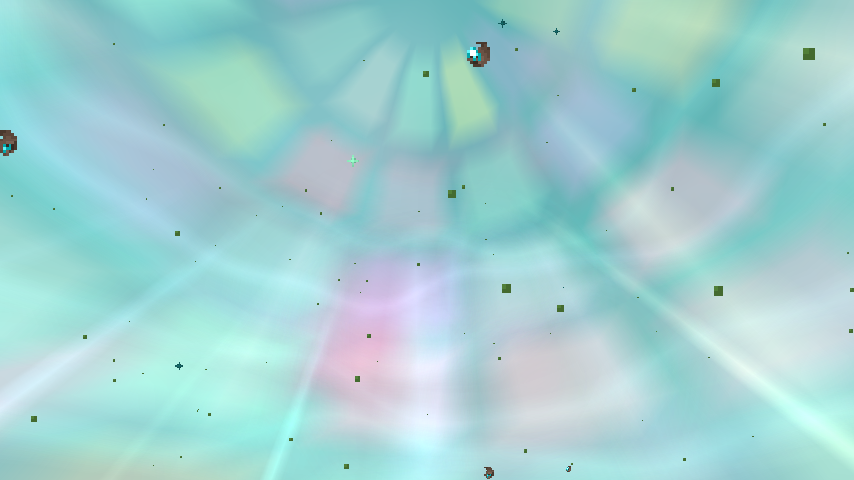
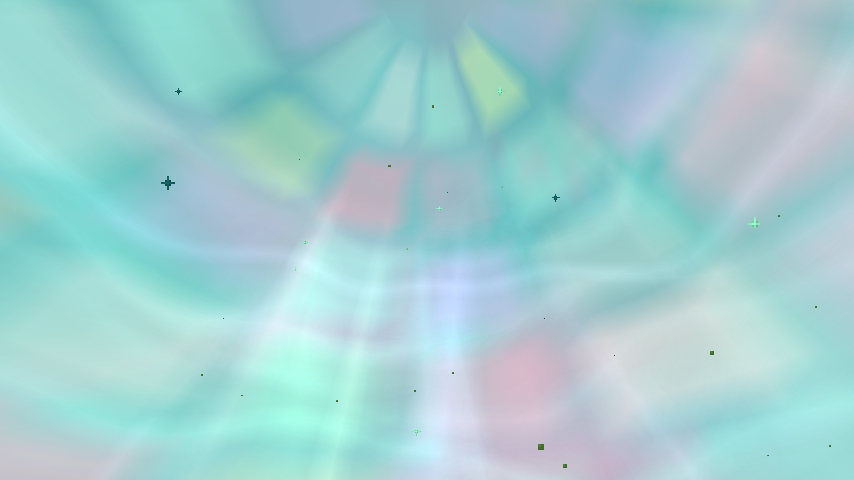
capture: single verified sky spot (140,95,-60); promote candidate b to sift_sky_quilt.png

diff --git a/fabric-mod/tools/ci_capture.py b/fabric-mod/tools/ci_capture.py
@@ -184,14 +184,13 @@ def main():
     shoot(r, "rift_against_ground", f"tp {who} 0 -48.5 9 180 24")
     r.cmd(f"gamemode creative {who}")
     # Sift dimension sky: the quilted pastel dome (MCD2 ref) - never photographed until now
-    # surface-level like the MCD2 ref; three spots because Sift structures can block any single one
-    for tag, x, y, z in [("", 8, 75, 8), ("_b", 140, 95, -60), ("_c", -90, 100, 70)]:
-        r.cmd(f"execute in entersift:the_sift run tp {who} {x} {y} {z} 180 -50")
-        time.sleep(7)                   # dimension chunks + sky blend settle
-        shoot(r, "sift_sky_quilt" + tag, None, settle=2)
+    # surface-level like the MCD2 ref; (140,95,-60) verified clear of Sift towers
+    r.cmd(f"execute in entersift:the_sift run tp {who} 140 95 -60 180 -50")
+    time.sleep(7)                       # dimension chunks + sky blend settle
+    shoot(r, "sift_sky_quilt", None, settle=2)
     pngs = sorted(CAP.glob("*.png"))
     print("[capture] done:", [p.name for p in pngs], flush=True)
-    if len(pngs) < 10:
+    if len(pngs) < 8:
         raise SystemExit("missing captures")
 
 
